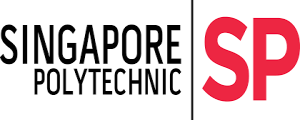
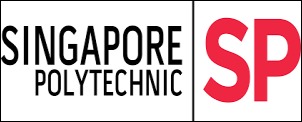
Commit 48
- Changed images with borders
- #sp-dev-inner width changed

diff --git a/education.html b/education.html
@@ -62,7 +62,7 @@
       <div class="row self-dev" id="ntu">
         <div class="dev-inner">
             <div class="dev-logo" id="ntu-logo">
-            <img src="image/ntu.jpg" />
+            <img src="image/ntu.png" />
             </div>
             <div class="col des" id="ntu-des">
             <h5><strong>Aug 2011 - Jul 2014</strong></h5>
@@ -82,7 +82,7 @@
       </div>
       <!-- start of sp content -->
       <div class="row self-dev" id="sing-poly-edu">
-        <div class="dev-inner">
+        <div class="dev-inner" id="sp-dev-inner">
             <div class="dev-logo" id="sp-logo">
             <img src="image/sp.png" />
             </div>
@@ -92,13 +92,15 @@
             <ul>
                 <li>Achieved Gold Award for Final Year Project</li>
                 <li>Development of Co-axial UAV</li>
+                <!-- <li><video width="400" height="300" controls>
+                <source src="video/uav.mp4" type="video/mp4" />
+                </video></li> -->
             </ul>
             <!-- <p>Achieved Gold Award for Final Year Project</p>
             <p>Development of Co-axial UAV</p> -->
             <!-- video -->
                 <video width="400" height="300" controls>
                 <source src="video/uav.mp4" type="video/mp4" />
-                Co-axial UAV
                 </video>
             </div>
         </div>

diff --git a/style.css b/style.css
@@ -265,6 +265,10 @@ figcaption {
     /* display: flex; */
     /* flex-direction: column; */
     /* justify-content: center; */
+    max-width: 1000px;
+}
+#sp-dev-inner {
+    max-width: 830px;
 }
 .dev-logo {
     width: 300px;
@@ -286,6 +290,9 @@ figcaption {
     color: #1B3F8B;
     font-weight: bold;
 }
+/* .dev-logo {
+    border: 1px solid black;
+} */
 #race-logo {
     background: black;
     height: 200px;

diff --git a/tablet.css b/tablet.css
@@ -96,4 +96,10 @@
       #logo img {
           width: 70vh;
       }
-}
+      /* end of work experience */
+
+      /* Education */
+      #sp-dev-inner {
+        width: 830px;
+        }
+}       
